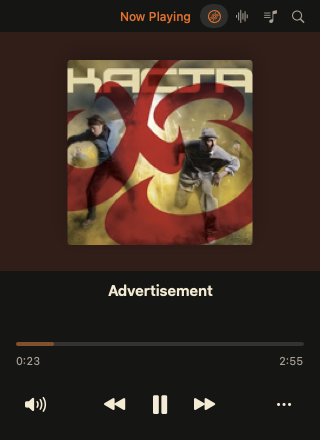
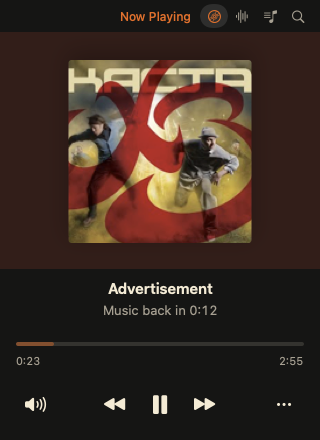
Ads say when the music comes back
Under "Advertisement", on Now Playing and in the strip: "Music back in
0:12", counted down; in a run of ads all but the last say "Ad 1 of 2".
The time is the video element's, which plays the ad itself. Not seen with
a real ad yet: the first one writes what the player reported to the log.

diff --git a/Sources/BSide/Resources/player.js b/Sources/BSide/Resources/player.js
@@ -85,6 +85,9 @@
   const PLAYER_ELEMENT = '#movie_player';
   const PLAYER_SIZE = 'width:320px;height:180px';
   const AD_CLASS = 'ad-showing';
+  // The player's own "1 of 2" over a run of ads; the numbers are read, the
+  // words are in the user's language.
+  const AD_COUNT_SELECTOR = '.ytp-ad-pod-index, .ytp-ad-simple-ad-badge';
   const REPORT_INTERVAL_MS = 5000;
   const BOOT_TIMEOUT_MS = 20000;
   const MEDIA_EVENTS = ['play', 'playing', 'pause', 'seeked', 'ended', 'durationchange', 'loadedmetadata', 'emptied'];
@@ -121,8 +124,29 @@
     event('version', videoId + (track.audio ? ' song' : ' video at quality ' + player.getPlaybackQuality()) + ', volume ' + player.getVolume());
   }
 
+  // How long the ad that plays still runs, and its place in a run of ads.
+  // The player's own times are the track's even then; the video element
+  // plays the ad itself, so its times are the ad's. -1 and 0 when unknown.
+  let adLogged = false;
+  function adState() {
+    const ad = { on: player.classList.contains(AD_CLASS), left: -1, index: 0, count: 0 };
+    if (!ad.on) { adLogged = false; return ad; }
+    const video = player.querySelector('video');
+    if (video && isFinite(video.duration) && video.duration > 0) ad.left = Math.max(0, video.duration - video.currentTime);
+    const badge = player.querySelector(AD_COUNT_SELECTOR);
+    const numbers = badge && (badge.textContent || '').match(/(\d+)\D+(\d+)/);
+    if (numbers) { ad.index = Number(numbers[1]); ad.count = Number(numbers[2]); }
+    if (!adLogged && ad.left >= 0) {
+      adLogged = true;
+      event('ad', Math.round(ad.left) + ' s left, ' + (ad.count ? ad.index + ' of ' + ad.count : 'no count')
+        + ', player says ' + Math.round(player.getCurrentTime() || 0) + ' of ' + Math.round(player.getDuration() || 0) + ' s');
+    }
+    return ad;
+  }
+
   function report() {
     if (!player) return;
+    const ad = adState();
     const data = player.getVideoData() || {};
     announce(data.video_id);
     const state = player.getPlayerState();
@@ -147,7 +171,10 @@
       position: player.getCurrentTime() || 0,
       duration: isFinite(duration) ? duration : 0,
       playing: state === PLAYING || state === BUFFERING,
-      ad: player.classList.contains(AD_CLASS),
+      ad: ad.on,
+      adLeft: ad.left,
+      adIndex: ad.index,
+      adCount: ad.count,
     });
   }
 

diff --git a/Sources/BSide/JSBridge.swift b/Sources/BSide/JSBridge.swift
@@ -10,6 +10,12 @@ struct PlayerState: Equatable {
     var duration: Double = 0
     var isPlaying = false
     var isAd = false
+    /// Seconds the ad still ran when the page reported at `adLeftAt`, -1
+    /// when unknown; its place in a run of ads, 0 when the player shows none.
+    var adLeft: Double = -1
+    var adLeftAt = Date.distantPast
+    var adIndex = 0
+    var adCount = 0
     var queueIndex = -1
     var queueCount = 0
     /// The queue has more pages that are not loaded yet.
@@ -21,6 +27,15 @@ struct PlayerState: Equatable {
     var albumID = ""
 
     var isLiked: Bool { like == "LIKE" }
+
+    /// Seconds until the ad ends, nil when the page could not tell.
+    func adRemaining(at date: Date) -> Double? {
+        guard isAd, adLeft >= 0 else { return nil }
+        return isPlaying ? max(0, adLeft - max(0, date.timeIntervalSince(adLeftAt))) : adLeft
+    }
+
+    /// More ads follow this one, so its end is not the music's return.
+    var moreAdsFollow: Bool { adCount > 0 && adIndex < adCount }
 
     var hasPrevious: Bool { queueIndex > 0 }
     var hasNext: Bool { queueIndex >= 0 && (queueIndex < queueCount - 1 || queueHasMore) }
@@ -294,6 +309,12 @@ final class JSBridge: NSObject, WKScriptMessageHandler {
             state.duration = (body["duration"] as? NSNumber)?.doubleValue ?? 0
             state.isPlaying = body["playing"] as? Bool ?? false
             state.isAd = body["ad"] as? Bool ?? false
+            if state.isAd {
+                state.adLeft = (body["adLeft"] as? NSNumber)?.doubleValue ?? -1
+                state.adLeftAt = Date()
+                state.adIndex = (body["adIndex"] as? NSNumber)?.intValue ?? 0
+                state.adCount = (body["adCount"] as? NSNumber)?.intValue ?? 0
+            }
             state.queueIndex = (body["queueIndex"] as? NSNumber)?.intValue ?? -1
             state.queueCount = (body["queueCount"] as? NSNumber)?.intValue ?? 0
             state.queueHasMore = body["queueHasMore"] as? Bool ?? false

diff --git a/Sources/BSide/Views/NowPlayingPage.swift b/Sources/BSide/Views/NowPlayingPage.swift
@@ -39,7 +39,9 @@ struct NowPlayingPage: View {
                         .foregroundStyle(Theme.Colors.text)
                         .lineLimit(1)
                         .help(title)
-                    if player.state.artistID.isEmpty || player.state.isAd {
+                    if player.state.isAd, player.state.adLeft >= 0 {
+                        AdCountdown(font: Theme.Text.body)
+                    } else if player.state.artistID.isEmpty || player.state.isAd {
                         Text(subtitle)
                             .font(Theme.Text.body)
                             .foregroundStyle(Theme.Colors.textMuted)
@@ -860,5 +862,30 @@ struct UpNextList: View {
                 .background(OverlayScrollers())
             }
         }
+    }
+}
+
+/// Under "Advertisement": when the music comes back, counted down each
+/// second. In a run of ads only the last one's end is the music's return,
+/// so the others say which ad it is and how long it still runs.
+struct AdCountdown: View {
+    let font: Font
+    @EnvironmentObject private var player: PlayerController
+
+    var body: some View {
+        TimelineView(.periodic(from: .now, by: 1)) { context in
+            Text(Self.text(for: player.state, at: context.date))
+                .font(font)
+                .monospacedDigit()
+                .foregroundStyle(Theme.Colors.textMuted)
+                .lineLimit(1)
+        }
+    }
+
+    static func text(for state: PlayerState, at date: Date) -> String {
+        guard let left = state.adRemaining(at: date) else { return "" }
+        let seconds = Int(left.rounded(.up))
+        let time = String(format: "%d:%02d", seconds / 60, seconds % 60)
+        return state.moreAdsFollow ? "Ad \(state.adIndex) of \(state.adCount) · \(time)" : "Music back in \(time)"
     }
 }

diff --git a/Sources/BSide/Design/Snapshots.swift b/Sources/BSide/Design/Snapshots.swift
@@ -46,7 +46,8 @@ enum Snapshots {
         long.title = "Everything In Its Right Place (Live at Glastonbury 2003, Remastered)"
         long.artist = "Radiohead feat. Someone With A Very Long Name Indeed"
         var noArt = track; noArt.artworkURL = nil
-        var ad = track; ad.isAd = true; ad.title = ""
+        var ad = track; ad.isAd = true; ad.title = ""; ad.adLeft = 12; ad.adLeftAt = .distantFuture // stands still
+        var adRun = ad; adRun.adIndex = 1; adRun.adCount = 2
         var loading = PlayerState(); loading.videoID = "x"
         let lists = [
             Playlist(id: "1", title: "Focus", subtitle: "Emil • 12 tracks", artworkURL: artwork),
@@ -59,6 +60,8 @@ enum Snapshots {
             ("nowplaying-long", .nowPlaying, .fixture(state: long, source: .mood(Mood.liked.id), playlists: lists)),
             ("nowplaying-noart", .nowPlaying, .fixture(state: noArt, source: .mood(Mood.liked.id), playlists: lists)),
             ("nowplaying-ad", .nowPlaying, .fixture(state: ad, source: .mood(Mood.liked.id), playlists: lists)),
+            ("nowplaying-ad-run", .nowPlaying, .fixture(state: adRun, source: .mood(Mood.liked.id), playlists: lists)),
+            ("vibe-ad", .vibe, .fixture(state: ad, source: .mood(Mood.liked.id), playlists: lists)),
             ("nowplaying-loading", .nowPlaying, .fixture(state: loading, source: .mood(Mood.liked.id), playlists: lists)),
             ("nowplaying-empty", .nowPlaying, .fixture(playlists: lists)),
             ("nowplaying-signedout", .nowPlaying, .fixture(account: .signedOut)),

diff --git a/Sources/BSide/Views/NowPlayingStrip.swift b/Sources/BSide/Views/NowPlayingStrip.swift
@@ -18,7 +18,9 @@ struct NowPlayingStrip: View {
                     Artwork(url: player.state.artworkURL, size: Theme.Size.artworkStrip, radius: Theme.Radius.nested)
                     VStack(alignment: .leading, spacing: 0) {
                         MarqueeText(text: line, font: Theme.Text.body, color: Theme.Colors.text)
-                        if let label = player.sourceLabel {
+                        if player.state.isAd, player.state.adLeft >= 0 {
+                            AdCountdown(font: Theme.Text.caption)
+                        } else if let label = player.sourceLabel {
                             sourceLine(label)
                                 .id(label)
                                 .transition(reduceMotion ? .opacity : .move(edge: .bottom).combined(with: .opacity))

diff --git a/design/SCREENS.md b/design/SCREENS.md
@@ -23,6 +23,10 @@ bar and under Command-comma. Starting music never switches the page.
   at a time) and is orange while the list shows. A click on a track jumps to
   it; its menu is a track's menu plus Remove from Up Next. The next 30
   tracks; "Nothing after this track." when there are none.
+- Ad: "Advertisement", and under it "Music back in 0:12", counted down
+  each second; in a run of ads all but the last say "Ad 1 of 2 · 0:12".
+  The same line is under "Advertisement" in the strip. Without a time from
+  the player, the ad's own title, as before.
 - What we removed or deferred: shuffle toggle, dragging tracks in Up Next
 - States: nothing playing (record alone, "Nothing playing", Play Vibe) /
   loading ("Loading…") / ad ("Advertisement", seek disabled) / long title (one
